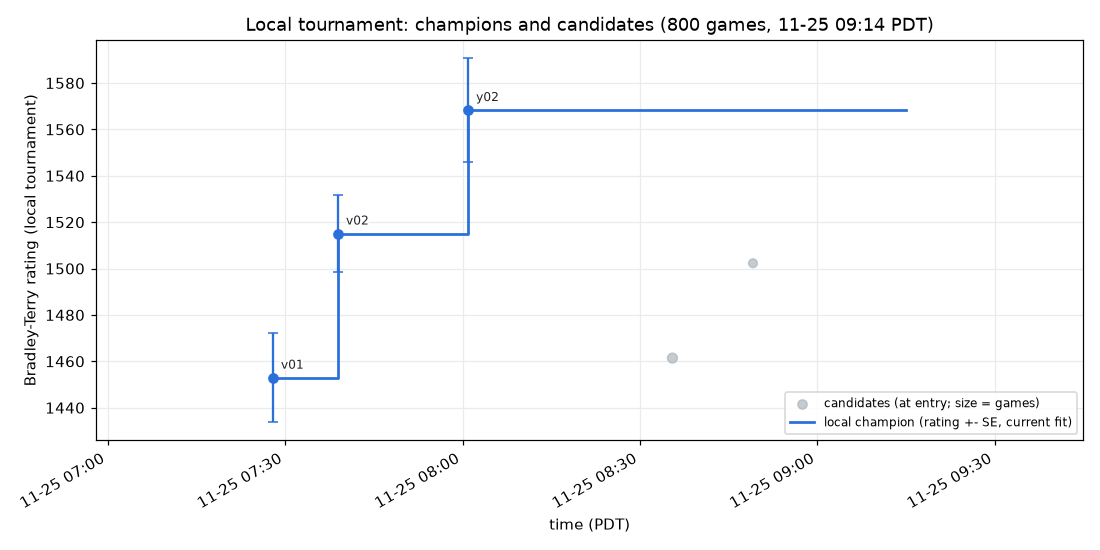
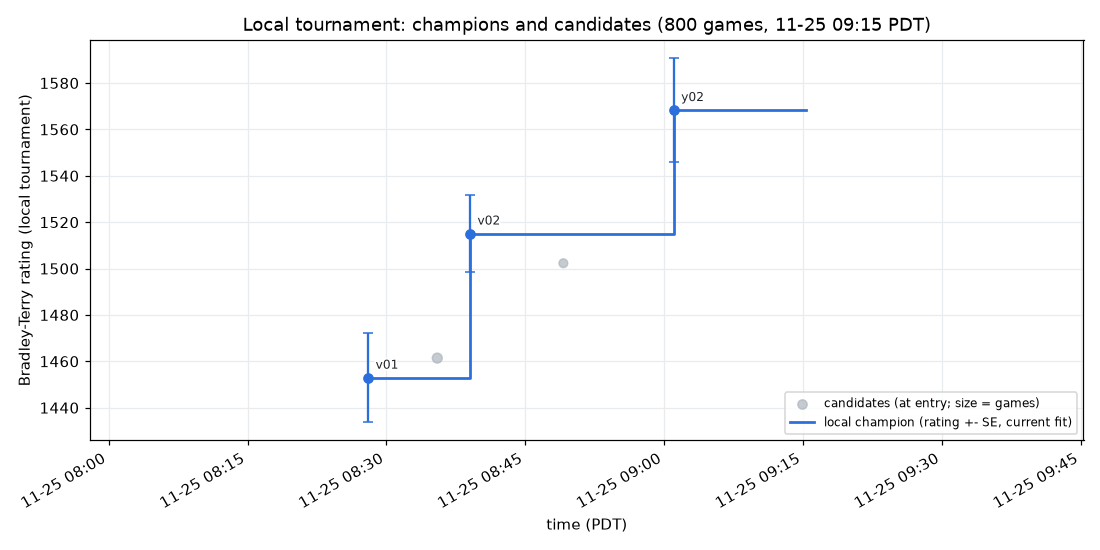
Times in the owner's zone (America/Vancouver, UTC-7) throughout; chart regenerated
Claude-Session: https://claude.ai/code/session_01SzziPSCWtjsjju9cnThDf5

diff --git a/progress/local-elo.md b/progress/local-elo.md
@@ -1,11 +1,11 @@
 # Local tournament Elo
 
-Bradley-Terry ratings of our own bots in the local tournament (`tools/tourney.py`), all 800 games in one fit as of 2026-11-25 09:14 PDT, so every point is on the same scale; earlier champions are shown at their current rating. Regenerate with `tools/tourney.py chart`.
+Bradley-Terry ratings of our own bots in the local tournament (`tools/tourney.py`), all 800 games in one fit as of 2026-11-25 09:15 PDT, so every point is on the same scale; earlier champions are shown at their current rating. Regenerate with `tools/tourney.py chart`.
 
 ![local elo](local-elo.png)
 
 | Champion from (PDT) | Bot | Change on base | Submission | Rating +- SE | Games |
 |---|---|---|---:|---:|---:|
-| 2026-11-25 07:28 | v01 | foundation bot |  | 1453 +- 19 | 386 |
-| 2026-11-25 07:39 | v02 | nav wall-follow fix + bytecode guards on v01 | #6 | 1515 +- 16 | 501 |
-| 2026-11-25 08:01 | y02 | paint-heavy tower mix + paint towers upgraded first on v02 | #7 | 1568 +- 22 | 254 |
+| 2026-11-25 08:28 | v01 | foundation bot |  | 1453 +- 19 | 386 |
+| 2026-11-25 08:39 | v02 | nav wall-follow fix + bytecode guards on v01 | #6 | 1515 +- 16 | 501 |
+| 2026-11-25 09:01 | y02 | paint-heavy tower mix + paint towers upgraded first on v02 | #7 | 1568 +- 22 | 254 |

diff --git a/PROMPTS.md b/PROMPTS.md
@@ -25,14 +25,14 @@ This year we will compete again in Battlecode 2025.  Store all results in a new 
 
 I like the local tournament configuration we used in battlecode26b-vibe.  I'd like this setup to be like that one
 
-## #3 (2026-11-25 07:55 PDT)
+## #3 (2026-11-25 08:55 PDT)
 
 I'd like you to schedule a prod every 20 minutes that reports on the current state of the local tournament, replica, and things like disk usage
 
-## #4 (2026-11-25 08:04 PDT)
+## #4 (2026-11-25 09:04 PDT)
 
 Clean out all VM disk under 2026b, bc26b, and bc26a0
 
-## #5 (2026-11-25 08:14 PDT)
+## #5 (2026-11-25 09:14 PDT)
 
 Please start a graph in progress/ to track the Elo ratings of the local tournament champions, using wallclock time on the x axis.  Keep it up to date as part of crowning a new champion
